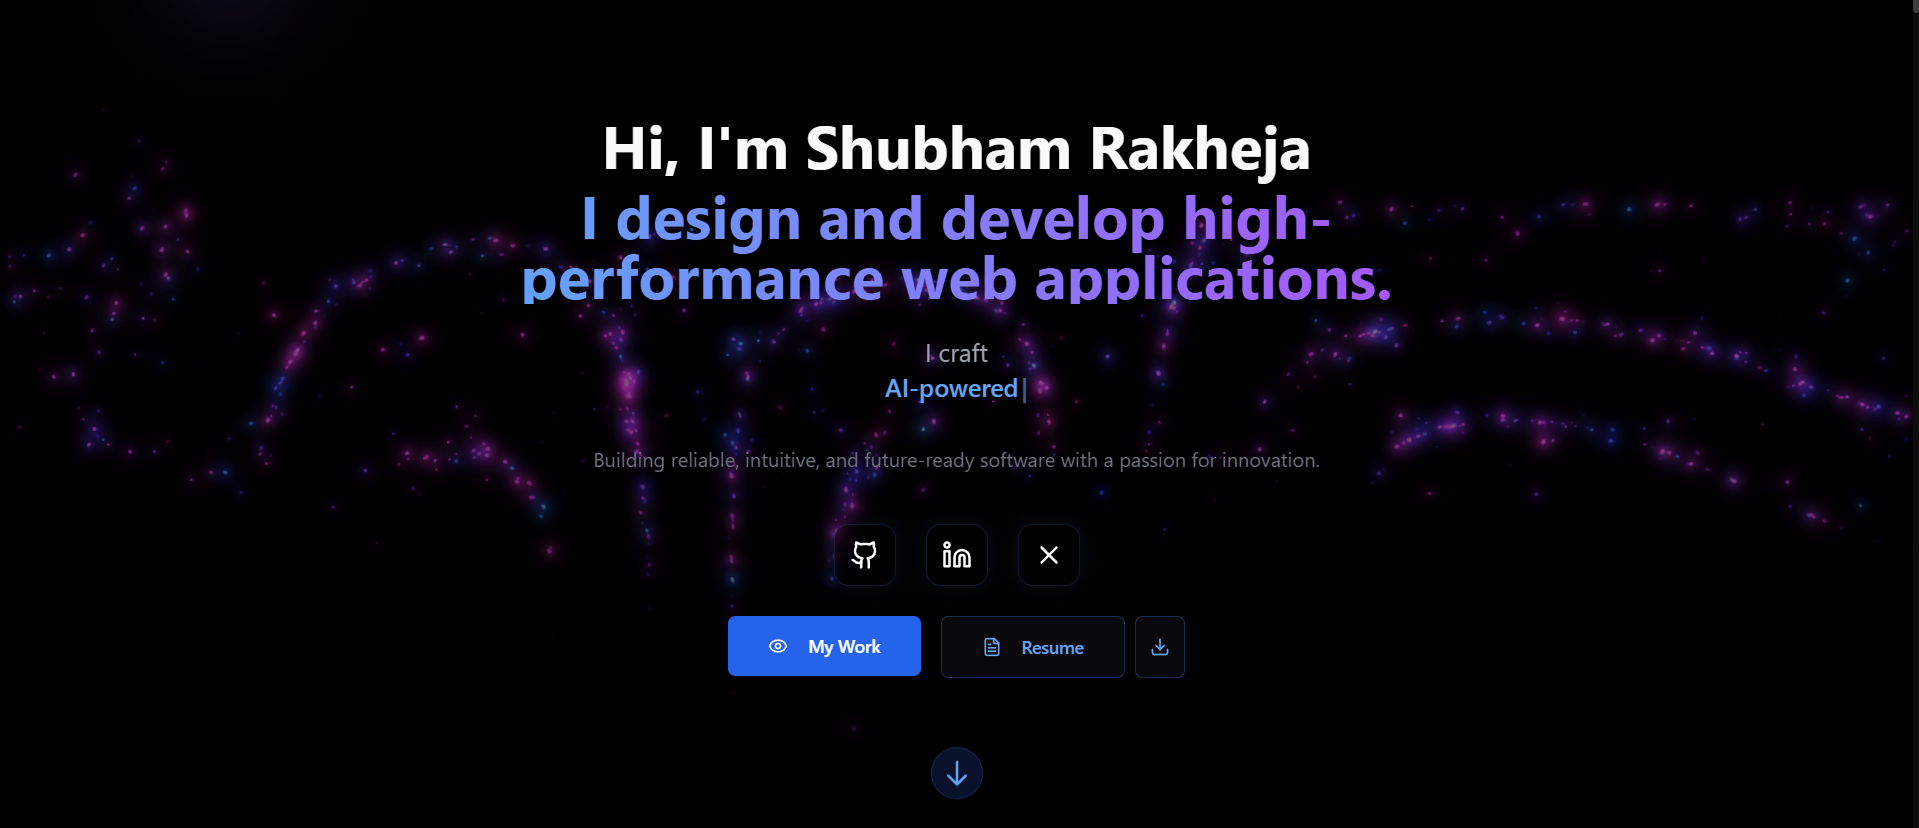
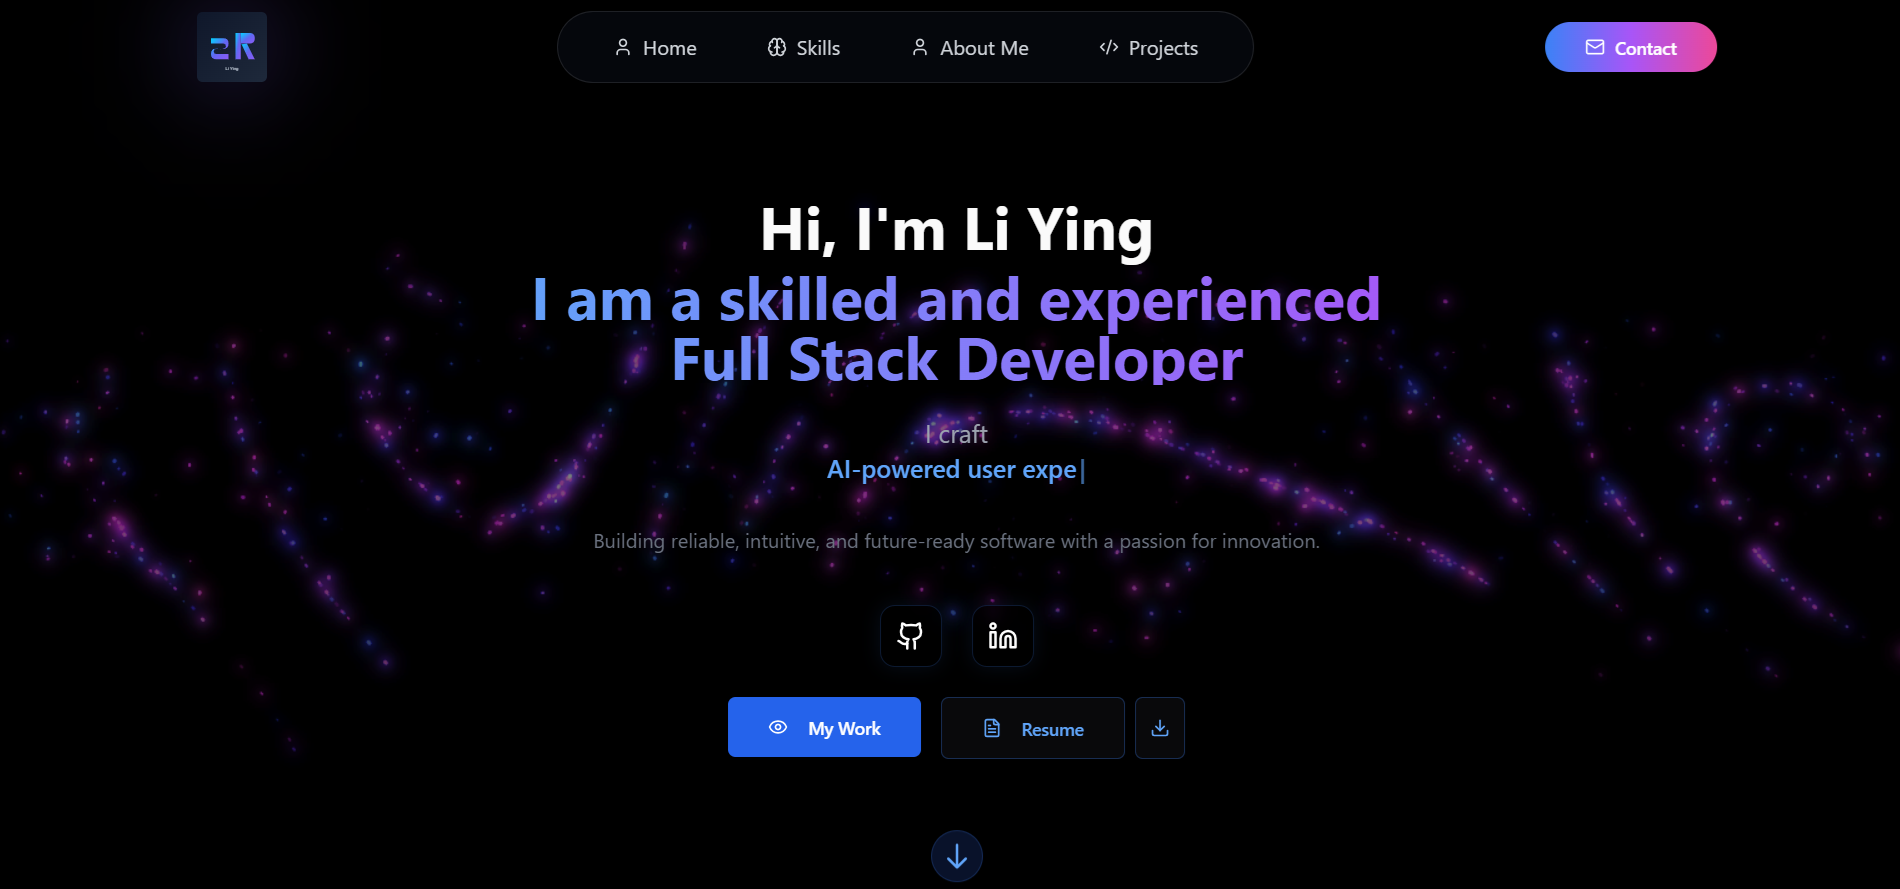
completed

diff --git a/src/components/Projects.tsx b/src/components/Projects.tsx
@@ -9,39 +9,39 @@ import { Link } from 'react-router-dom';
 const projectsData: Project[] = [
   {
     id: 1,
-    title: "MockMate : A complete capstone project",
-    description: "AI-Mock-Interviewer helps students and professionals practice interviews in a realistic, AI-driven environment. Simply choose your role or domain, and the app generates tailored interview questions, evaluates responses, and gives instant feedback on communication, clarity, and technical depth. Deployed on Vercel, it provides accessible, on-demand interview preparation anytime.",
-    image: "/lovable-uploads/mockmate.png",
-    tags: ["React", "Next.js", "Tailwind CSS", "JS", "Node.js", "Express.js", "Clerk-Auth", "Gemini-API", "Mongodb"],
-    demoUrl: "https://mock-mate-pa7l.vercel.app/",
-    githubUrl: "https://github.com/shubham220420/MockMate"
+    title: "Finger Fiasco",
+    description: "A fast-paced typing game to test and improve your typing speed. Built using HTML, CSS, JavaScript with custom game logic and animated UI.",
+    image: "/lovable-uploads/finger-fiasco.png",
+    tags: ["React", "Next",  "Node", "Express",  "Mongodb"],
+    demoUrl: "https://codemaster531.github.io/FingerFiasco/home.html",
+    githubUrl: "https://github.com/CodeMaster531/FingerFiasco"
   },
   {
     id: 2,
-    title: "PitchSpark: A Startup Pitching Platform",
-    description: "PitchSpark lets aspiring founders share and refine their startup ideas through interactive pitching. Users can post their concepts, receive feedback, and engage with a community of peers to improve their pitches. Uses Sanity.io for headless content management. Deployed on Vercel, it provides an easy, collaborative space for startup validation and idea exchange.",
-    image: "/lovable-uploads/PitchSpark.png",
-    tags: ["Next.js", "Node.js", "REST", "NextAuth", "SanityCMS","Express.js","Tailwind CSS"],
-    demoUrl: "https://pitch-spark-delta.vercel.app",
-    githubUrl: "https://github.com/shubham220420/PitchSpark"
+    title: "Pinterest Clone",
+    description: "A visually rich and fully responsive Pinterest Clone crafted using React, React Router, and Tailwind CSS, offering a seamless browsing experience with smooth navigation and a modern UI design.",
+    image: "/lovable-uploads/pinterest-clone .png",
+    tags: ["Node.js", "REST", "Express","Tailwind CSS"],
+    demoUrl: "https://github.com/codemaster531/Pinterest-Clone",
+    githubUrl: "https://github.com/codemaster531Pinterest-Clone"
   },
   {
     id: 3,
-    title: "Portfolio with Admin Dashboard",
-    description: "A modern, full-stack portfolio website featuring an integrated admin dashboard for seamless content and project management. The platform supports secure authentication with Next-Auth, state management via React Context API. The admin dashboard allows easy updates to portfolio content, project listings, and blog posts, all within a responsive and visually engaging UI",
-    image: "/lovable-uploads/portfolio.png",
-    tags: ["React", "Next.js", "Tailwind CSS", "TypeScript", "Node.js", "Express.js", "Next-Auth", "Context-API", "Mongo"],
-    demoUrl: "https://www.shubhamrakheja.online/",
-    githubUrl: "https://github.com/shubham220420/NewPortFolio"
+    title: "Cheese Oven",
+    description: " A vibrant and appetizing landing page for a pizza store, an interactive menu, online ordering, and special offers to entice customers.",
+    image: "/lovable-uploads/Pizza-Store-Landing-Page.png",
+    tags: ["React",   "Node", "Express",   "Mongo","Next"],
+    demoUrl: "https://codemaster531.github.io/Landing-Page-Project/",
+    githubUrl: "https://github.com/CodeMaster531/Landing-Page-Project"
   },
    {
     id: 4,
-    title: "ATSify-AI Powered Resume Analysis",
-    description: "ATSify helps job seekers optimize their resumes for Applicant Tracking Systems (ATS) using AI-driven analysis. Simply upload your resume and job description, and the tool instantly evaluates formatting, keyword relevance, and overall ATS compatibility. It highlights missing skills, provides actionable suggestions, and scores your resume’s chances of passing ATS filters. Deployed on Vercel, ATSify ensures fast, accessible, and on-demand resume optimization for students and professionals alike.",
-    image: "/lovable-uploads/atsify.png",
-    tags: ["React", "Tailwind CSS", "TypeScript", "Node.js", "Express.js", "OPEN-API"],
-    demoUrl: "https://ats-resume-checker-iota.vercel.app/",
-    githubUrl: "https://github.com/Shubham220420/ats-resume-checker"
+    title: "Portfolio Website",
+    description: "My portfolio website featuring my projects, skills, and journey. Built with HTML, CSS, and JavaScript for a modern, interactive experience.",
+    image: "/lovable-uploads/portfolio.png",
+    tags: ["React",  "TypeScript", "Node", "Express"],
+    demoUrl: "https://codemaster531.github.io/my-Portfolio",
+    githubUrl: "https://github.com/CodeMaster531/my-portfolio"
   },
 ];
 

diff --git a/src/components/Contact.tsx b/src/components/Contact.tsx
@@ -11,25 +11,17 @@ const contactMethods = [
   {
     icon: Mail,
     label: 'Email',
-    value: 'b4mshubham@gmail.com',
-    href: 'mailto:b4mshubham@gmail.com',
+    value: 'codingexpert483@gmail.com',
+    href: 'mailto:codingexpert483@gmail.com',
     bg: 'bg-blue-700',
     iconColor: 'text-white',
   },
   {
     icon: Github,
     label: 'GitHub',
-    value: 'github.com/shubhamrakheja',
-    href: 'https://github.com/shubham220420',
+    value: 'github.com/codemaster531',
+    href: 'https://github.com/codemaster531',
     bg: 'bg-gray-700',
-    iconColor: 'text-white',
-  },
-  {
-    icon: Linkedin,
-    label: 'LinkedIn',
-    value: 'linkedin.com/in/shubhamrakheja',
-    href: 'https://linkedin.com/in/shubham-rakheja',
-    bg: 'bg-blue-800',
     iconColor: 'text-white',
   },
 ];
@@ -60,29 +52,29 @@ const StackOverflowIcon = () => (
   </svg>
 );
 
-const codingPlatforms = [
-  {
-    icon: LeetCodeIcon,
-    label: 'LeetCode',
-    href: 'https://leetcode.com/shubham2204',
-    bg: 'bg-white',
-    iconColor: '',
-  },
-  {
-    icon: HackerRankIcon,
-    label: 'HackerRank',
-    href: 'https://hackerrank.com',
-    bg: 'bg-white',
-    iconColor: '',
-  },
-  {
-    icon: StackOverflowIcon,
-    label: 'Stack Overflow',
-    href: 'https://stackoverflow.com',
-    bg: 'bg-white',
-    iconColor: '',
-  },
-];
+// const codingPlatforms = [
+//   {
+//     icon: LeetCodeIcon,
+//     label: 'LeetCode',
+//     href: 'https://leetcode.com/shubham2204',
+//     bg: 'bg-white',
+//     iconColor: '',
+//   },
+//   {
+//     icon: HackerRankIcon,
+//     label: 'HackerRank',
+//     href: 'https://hackerrank.com',
+//     bg: 'bg-white',
+//     iconColor: '',
+//   },
+//   {
+//     icon: StackOverflowIcon,
+//     label: 'Stack Overflow',
+//     href: 'https://stackoverflow.com',
+//     bg: 'bg-white',
+//     iconColor: '',
+//   },
+// ];
 
 const ProfessionalSummary = () => (
   <Card className="glowing-card bg-gray-900/70 border-gray-800 rounded-xl transition-all duration-300 overflow-hidden h-full flex flex-col justify-center">
@@ -112,7 +104,7 @@ const ProfessionalSummary = () => (
           </a>
         ))}
       </div>
-      <div className="flex gap-6 mt-4">
+      {/* <div className="flex gap-6 mt-4">
         {codingPlatforms.map((platform) => (
           <a
             key={platform.label}
@@ -125,7 +117,7 @@ const ProfessionalSummary = () => (
             <platform.icon />
           </a>
         ))}
-            </div>
+            </div> */}
     </CardContent>
   </Card>
 );
@@ -169,7 +161,7 @@ const ContactForm = () => {
           'Accept': 'application/json'
         },
         body: JSON.stringify({
-          access_key: '05716f43-0ded-4e55-bf95-ab5882df239f',
+          access_key: 'd66ca5ed-2d7c-4626-bfea-32e89af846cb',
           firstName: formData.firstName,
           lastName: formData.lastName,
           email: formData.email,

diff --git a/src/components/About.tsx b/src/components/About.tsx
@@ -12,23 +12,27 @@ interface TimelineItem {
 const timelineData: TimelineItem[] = [
   {
     id: 1,
-    year: "2024 November - Present",
-    title: "My LeetCode Journey - 1877 Rated (Knight)",
-    description: `Started with Zero Coding Knowledge to ranking in te top 7% on LeetCode. Solved 360+ problems across various topics including Arrays, Strings, Linked Lists, Trees, Graphs, Dynamic Programming, and more. Focused on problem-solving skills, algorithmic thinking, and coding efficiency.`,
+    year: "2023–Present",
+    title: "Senior Full Stack Developer (Freelancer) ",
+    description: `Since 2023, I have been working independently as a Senior Full Stack Developer, delivering scalable, high-performance web applications for clients worldwide. I design and implement both frontend and backend systems using React, Vue, Next.js, Node.js, Laravel, and MongoDB—ensuring robust architecture, maintainability, and seamless user experiences.`,
     type: "experience"
   },
   {
     id: 2,
-    year: "2024 November - Present",
-    title: "Codeforces Rating 1310 (Pupil)",
-    description: ` Achieved a Codeforces rating of 1310 by actively participating in contests and solving problems regularly. Improved problem-solving speed and accuracy through consistent practice and learning from editorials and discussions.`,
+    year: "2018–2023",
+    title: "Full Stack Developer (UTStarcom) – Hangzhou, China",
+    description: ` • Developed and maintained dynamic web applications using React, Node.js, and MySQL.
+• Collaborated with cross-functional teams to deliver high-quality software solutions.
+• Enhanced performance and scalability through clean code practices and optimization.`,
     type: "experience"
   },
   {
     id: 3,
-    year: "2024 December - Present",
-    title: "Codechef Rating 1627 (3 Star)",
-    description: " Achieved a Codechef rating of 1627 (3 Star) by consistently solving problems and participating in contests. Focused on enhancing algorithmic skills and learning new techniques to tackle diverse problem types.",
+    year: "2016–2018",
+    title: "Junior Developer (Hundsun Technologies Inc ) – Hangzhou, China",
+    description: `After earning my degree in Computer Science, I began my career as a Junior Developer at Skyline Tech.
+• Assisted in developing and testing web applications using JavaScript and PHP.
+• Gained practical experience in all phases of the software development lifecycle—from planning to deployment.`,
     type: "education"
   }
 ];

diff --git a/index.html b/index.html
@@ -3,14 +3,14 @@
   <head>
     <meta charset="UTF-8" />
     <meta name="viewport" content="width=device-width, initial-scale=1.0" />
-    <title>Shubham Rakheja - Software Developer</title>
-    <meta name="description" content="Personal portfolio of Shubham Rakheja - Full Stack Engineer, AI Innovator, and Builder." />
-    <meta name="author" content="Shubham Rakheja" />
+    <title>Li Ying - Software Developer</title>
+    <meta name="description" content="Personal portfolio of Li Ying - Full Stack Engineer, AI Innovator, and Builder." />
+    <meta name="author" content="Li Ying" />
 
     <!-- Favicon -->
     <link rel="icon" type="svg+xml" href="/logo.svg" />
 
-    <meta property="og:title" content="Shubham Rakheja - AI Engineer & Full Stack Developer" />
+    <meta property="og:title" content="Li Ying - AI Engineer & Full Stack Developer" />
     <meta property="og:description" content="I craft software and agents that think. Full Stack Engineer specializing in AI-powered solutions." />
     <meta property="og:type" content="website" />
     <meta property="og:image" content="https://lovable.dev/opengraph-image-p98pqg.png" />

diff --git a/src/components/Hero.tsx b/src/components/Hero.tsx
@@ -26,8 +26,8 @@ const Hero = () => {
             animate={{ opacity: 1, y: 0 }}
             transition={{ duration: 0.6, delay: 0.2 }}
           >
-            <span className="block">Hi, I'm Shubham Rakheja</span>
-            <span className="block mt-2 bg-gradient-to-r from-blue-400 to-purple-500 text-transparent bg-clip-text">I design and develop high-performance web applications.</span>
+            <span className="block">Hi, I'm Li Ying</span>
+            <span className="block mt-2 bg-gradient-to-r from-blue-400 to-purple-500 text-transparent bg-clip-text">I am a skilled and experienced Full Stack Developer</span>
           </motion.h1>
           
           <motion.h2 

diff --git a/src/components/Footer.tsx b/src/components/Footer.tsx
@@ -40,7 +40,7 @@ const Footer = () => {
               />
               <div>
                 <p className="text-gray-400 text-sm">
-                  © {currentYear} Shubham Rakheja. All rights reserved.
+                  © {currentYear} Li Ying. All rights reserved.
                 </p>
               </div>
             </div>

diff --git a/README.md b/README.md
@@ -102,5 +102,5 @@ The project can be deployed to any static hosting service:
 5. Open a Pull Request
 
 <div align="center">
-Made by Shubham Rakheja
+Made by Li Ying
 </div>
